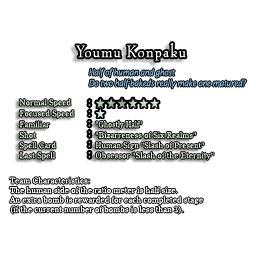
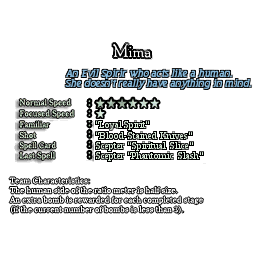
Updated the other descriptions

Changed region(s): [[0.25, 0.1562, 1.0, 0.375], [0.3438, 0.4688, 0.8438, 0.6562], [0.0625, 0.4375, 0.2812, 0.4688]]

diff --git a/mima/files.js b/mima/files.js
@@ -1,6 +1,6 @@
 {
 	"patch.js": 3616395204,
-	"stringdefs.js": 370614981,
+	"stringdefs.js": 494112027,
 	"th08/data/face/alice/face_al00.png": 2307630739,
 	"th08/data/face/alice/face_al00lr.png": 2840974018,
 	"th08/data/face/alice/face_al01an.png": 345189796,
@@ -67,10 +67,10 @@
 	"th08/data/title/sl_pl03h.png": 1845854293,
 	"th08/data/title/sl_pltxt0.png": 1423342991,
 	"th08/data/title/sl_pltxt1.png": 3058675648,
-	"th08/data/title/sl_pltxt10.png": 4280599591,
-	"th08/data/title/sl_pltxt11.png": 1356094234,
+	"th08/data/title/sl_pltxt10.png": 262183313,
+	"th08/data/title/sl_pltxt11.png": 2139912066,
 	"th08/data/title/sl_pltxt2.png": 3503936125,
-	"th08/data/title/sl_pltxt3.png": 3317551189,
+	"th08/data/title/sl_pltxt3.png": 3364119568,
 	"th08/data/title/sl_pltxt4.png": 2724803,
 	"th08/data/title/sl_pltxt5.png": 1855595020,
 	"th08/data/title/sl_pltxt6.png": 97270651,

diff --git a/mima/stringdefs.js b/mima/stringdefs.js
@@ -68,7 +68,7 @@
     "th08 Bomb Remilia": "Scarlet Sign \"Red the Nightless Castle\"",
     "th08 Bomb Remilia Last": "Scarlet Devil \"Scarlet Devil\"",
     "th08 Bomb Youmu": "Scepter \"Spiritual Slice\"",
-    "th08 Bomb Youmu Last": "Scepter \"Slash of a Thousand Phantoms\"",
+    "th08 Bomb Youmu Last": "Scepter \"Phantomic Slash\"",
     "th08 Bomb Yuyuko": "Nature Sign \"Flower Shower\"",
     "th08 Bomb Yuyuko Last": "Poison Higanbana \"Flower Burial\"",
     "th08 Spell Dissolve": "\"Dissolve Spell\"",
